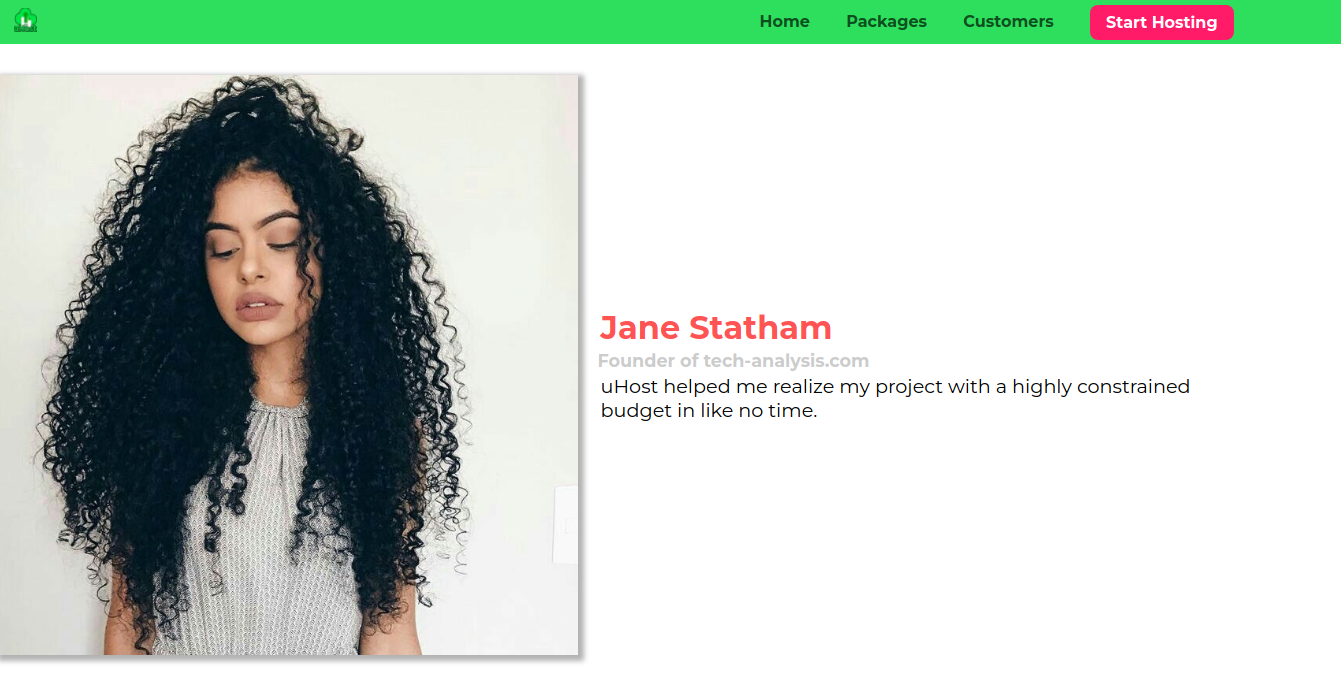
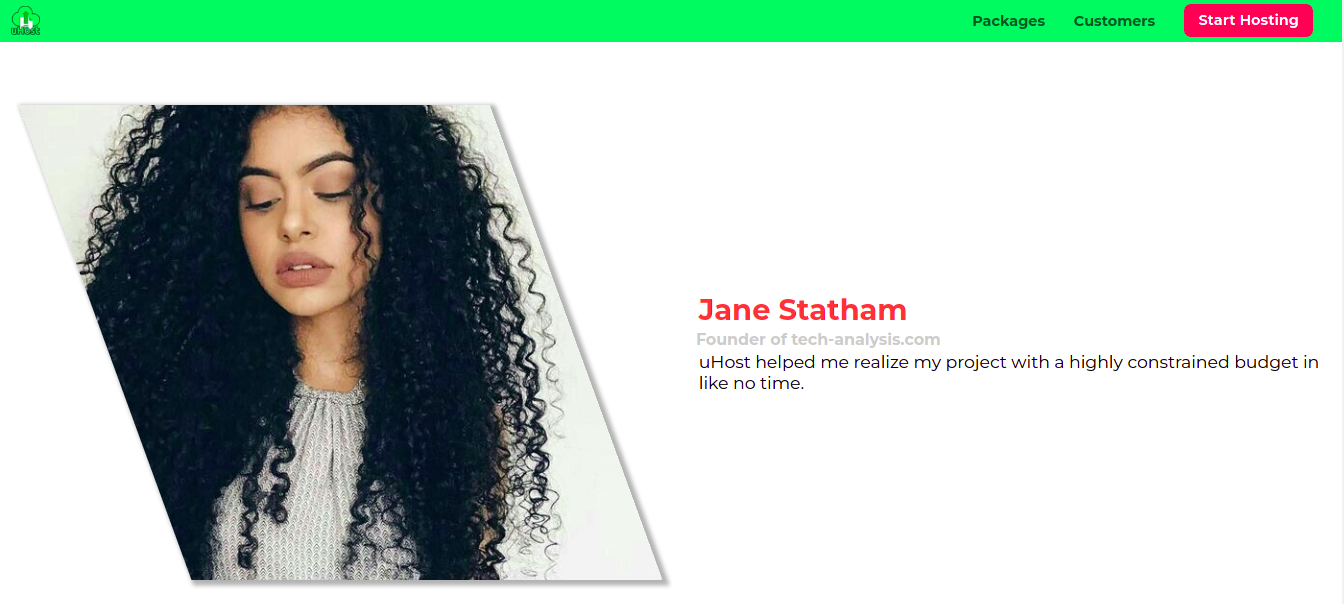
245. Working with "skew" and "scale"

diff --git a/css/customers.css b/css/customers.css
@@ -1,3 +1,7 @@
+main {
+  overflow: hidden;
+}
+
 .testimonial {
     font-size: 1.2rem;
     margin: 3rem auto;
@@ -18,17 +22,20 @@
   }
 
   .testimonial__image-container {
-    width: 90%;
+    width: 60%;
     max-width: 40rem;
     margin: 0 auto;
     max-width: 580px;
     /* display: inline-block; */
     vertical-align: middle;
     box-shadow: 3px 3px 5px 3px rgba(0,0,0,0.3);
+    transform: skew(20deg);
+    overflow: hidden;
   }
 
   .testimonial__image {
     width: 100%;
+    transform: skew(-20deg) scale(1.5);
     /* vertical-align: top; */
   }
   
@@ -60,7 +67,7 @@
   }
   .testimonial__image-container {
     /* display: inline-block; */
-    width: 49%;
+    width: 35%;
   }
 }
   
